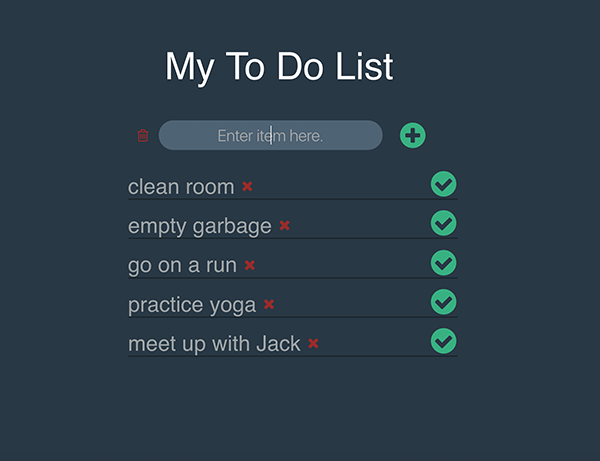
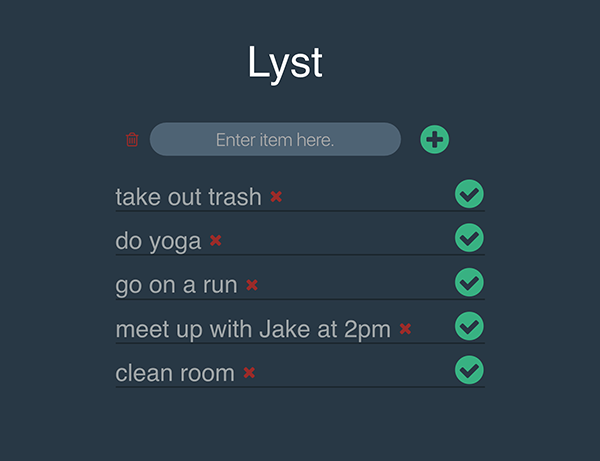
lyst app

diff --git a/public/bundle.js b/public/bundle.js
@@ -22377,12 +22377,12 @@
 	                            _react2.default.createElement(
 	                                'h3',
 	                                null,
-	                                'My To Do List'
+	                                'Lyst'
 	                            ),
 	                            _react2.default.createElement(
 	                                'p',
 	                                null,
-	                                'This is a to do list application I built in React using Redux. I\'m currently in the process of adding a backend in Node.js, database using MongoDB and Mongoose, and user authentication using Passport.'
+	                                'Lyst is a to do list application I built in React and Redux. I\'m currently in the process of adding a backend in Node.js, database using MongoDB and Mongoose, and user authentication using Passport.'
 	                            ),
 	                            _react2.default.createElement(
 	                                'p',
@@ -22396,7 +22396,7 @@
 	                            ),
 	                            _react2.default.createElement(
 	                                'a',
-	                                { href: 'http://amituuush.github.io/todo-list/public/', target: '_blank' },
+	                                { href: 'http://amituuush.github.io/lyst/public/', target: '_blank' },
 	                                _react2.default.createElement(
 	                                    'button',
 	                                    null,
@@ -22406,7 +22406,7 @@
 	                            _react2.default.createElement('a', { name: 'about-me' }),
 	                            _react2.default.createElement(
 	                                'a',
-	                                { href: 'https://github.com/amituuush/todo-list', target: '_blank' },
+	                                { href: 'https://github.com/amituuush/lyst', target: '_blank' },
 	                                _react2.default.createElement(
 	                                    'button',
 	                                    null,

diff --git a/client/components/Projects/Projects.jsx b/client/components/Projects/Projects.jsx
@@ -50,12 +50,12 @@ var Projects = React.createClass({
                             <img src="img/todo-list.png" />
                         </div>
                         <div className="projects-item-content item-content-todo-list">
-                            <h3>My To Do List</h3>
-                            <p>This is a to do list application I built in React using Redux. I'm currently in the process of adding a backend in Node.js, database using MongoDB and Mongoose, and user authentication using Passport.</p>
+                            <h3>Lyst</h3>
+                            <p>Lyst is a to do list application I built in React and Redux. I'm currently in the process of adding a backend in Node.js, database using MongoDB and Mongoose, and user authentication using Passport.</p>
                             <p><span>Technologies: </span>React, Redux, Node.js, Express, MongoDB, Mongoose, Passport, Travis CI, LESS</p>
-                            <a href="http://amituuush.github.io/todo-list/public/" target="_blank"><button>Demo</button></a>
+                            <a href="http://amituuush.github.io/lyst/public/" target="_blank"><button>Demo</button></a>
                             <a name="about-me"></a>
-                            <a href="https://github.com/amituuush/todo-list" target="_blank"><button>Repo</button></a>
+                            <a href="https://github.com/amituuush/lyst" target="_blank"><button>Repo</button></a>
                         </div>
                     </div>
                 </div>
